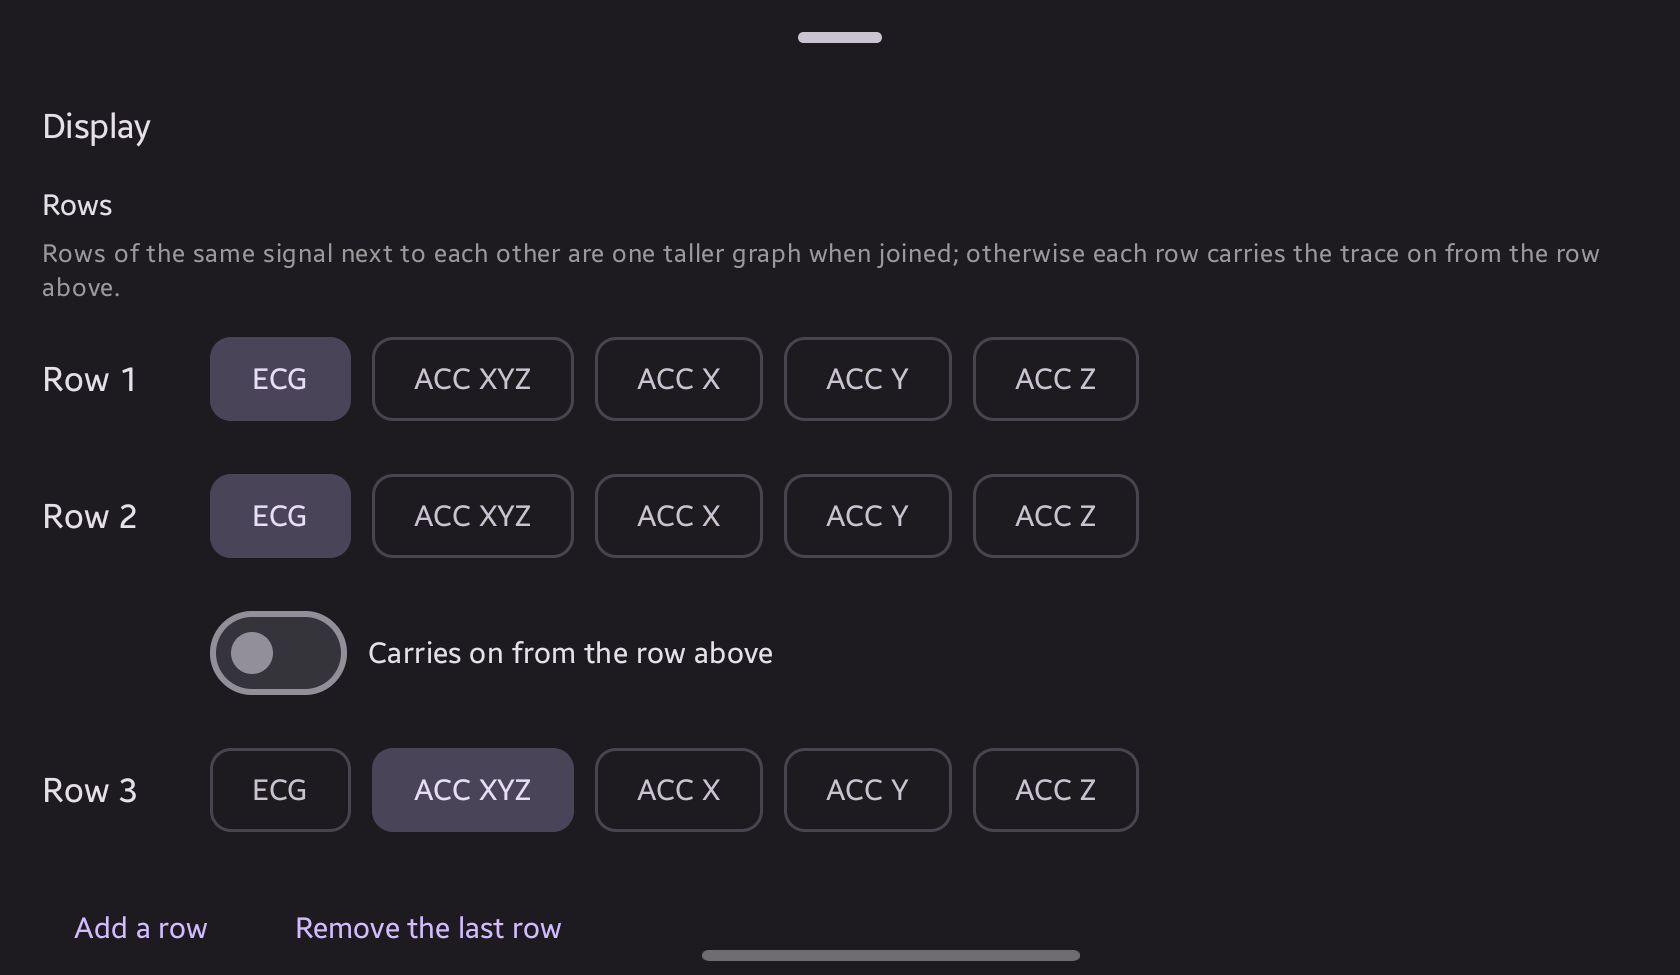
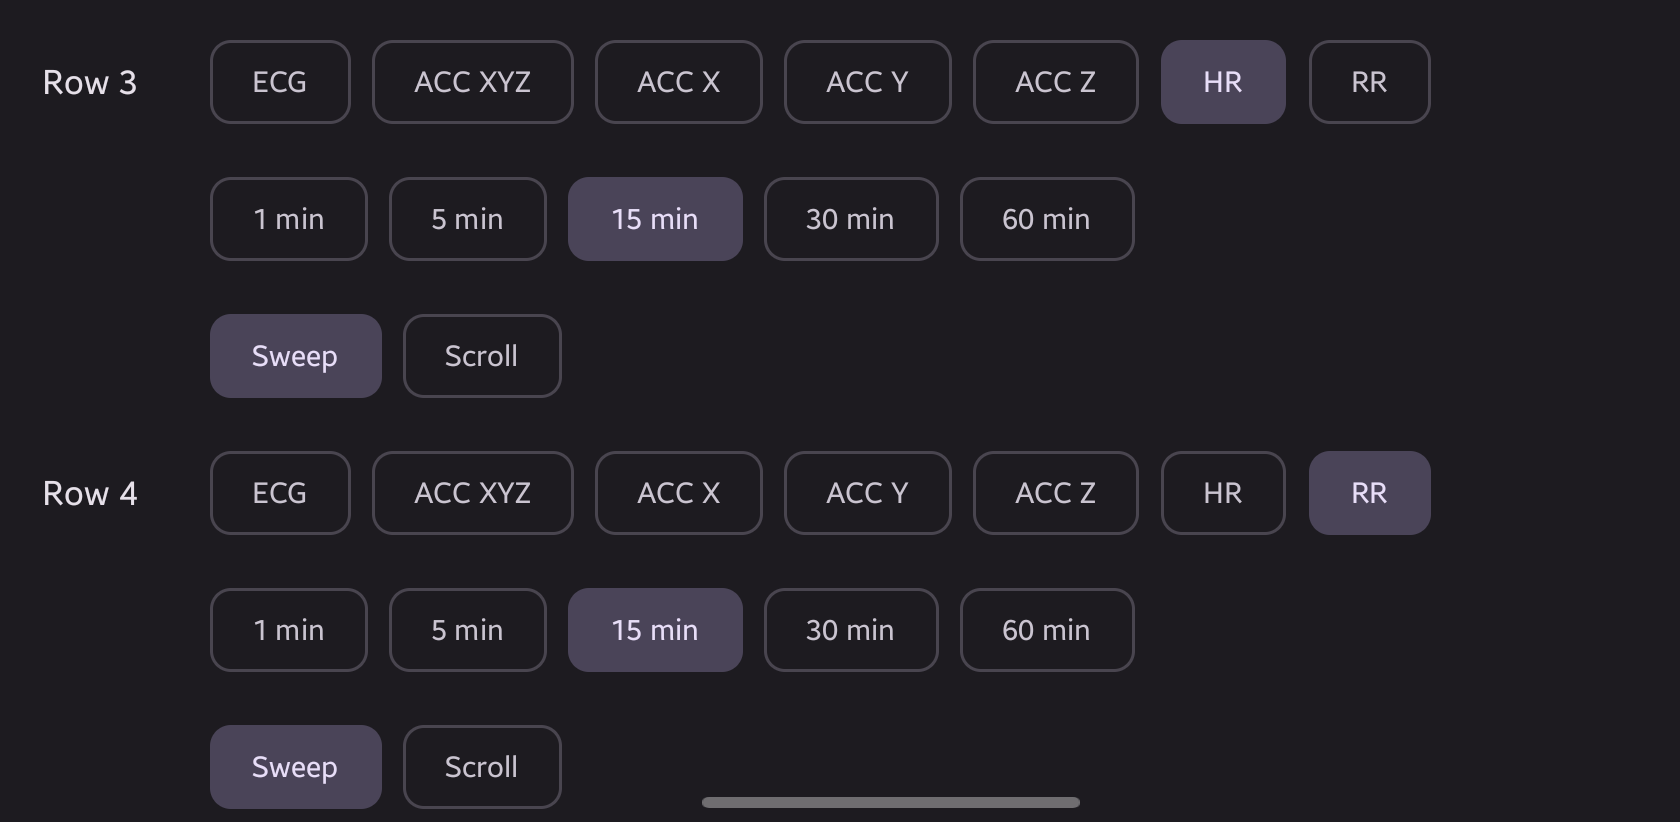
docs: show the trend rows, fast and slow ECG, and rewinding into a resumed recording in the README

diff --git a/README.md b/README.md
@@ -1,7 +1,7 @@
 # Jabjotjai
 
 <p align="center">
-  <img src="docs/screenshots/monitor-landscape.gif" alt="The live monitor in landscape while the wearer moves: two cascaded ECG rows above the accelerometer's X, Y and Z, with heart rate, RR interval and the strap's status in the bar above" width="900">
+  <img src="docs/screenshots/monitor-landscape.gif" alt="The live monitor in landscape while the wearer moves: ECG, the accelerometer's X, Y and Z, and 15-minute heart-rate and RR trends, with the strap's status in the bar above" width="900">
 </p>
 
 **A Holter-style recorder for a chest-strap ECG sensor.**
@@ -17,17 +17,22 @@ phone. It works with the Polar H10, and has only been tested on a Samsung Galaxy
 
 Download `jabjotjai-<version>.apk` from the
 [latest release](https://github.com/benwrk/Jabjotjai/releases/latest), the newest on the list
-while every release is still a prerelease, and open it on a phone running Android 13 or later. A newer version installs over an older one and keeps your recordings; never
-uninstall to update, because uninstalling deletes them.
+while every release is still a prerelease, and open it on a phone running Android 13 or later. A
+newer version installs over an older one and keeps your recordings; never uninstall to update,
+because uninstalling deletes them.
 
 <table align="center">
   <tr>
-    <td><img src="docs/screenshots/rewinding.gif" alt="Pausing the capture, dragging the timeline back while the monitor follows, and playing on from there" width="400"></td>
-    <td><img src="docs/screenshots/cascaded-ecg.png" alt="Five ECG rows cascaded into one long sweep" width="400"></td>
-    <td rowspan="2"><img src="docs/screenshots/monitor-portrait.png" alt="The monitor in portrait, with the top bar on two rows" width="170"></td>
+    <td><img src="docs/screenshots/rewinding.gif" alt="Pausing, then dragging the timeline back into an earlier file of a resumed recording while the monitor follows, and playing on from there" width="400"></td>
+    <td><img src="docs/screenshots/monitor-fast-slow.png" alt="The same ECG at 25 mm/s and at 6.25 mm/s, above heart-rate and RR trends" width="400"></td>
+    <td rowspan="3"><img src="docs/screenshots/monitor-portrait.png" alt="The monitor in portrait: fast and slow ECG above heart-rate and RR trends" width="170"></td>
   </tr>
   <tr>
-    <td><img src="docs/screenshots/chart-rows.png" alt="The display settings: choosing what each chart row shows" width="400"></td>
+    <td><img src="docs/screenshots/monitor-trends.png" alt="ECG above 15-minute heart-rate and RR trends, broken where the recording resumed" width="400"></td>
+    <td><img src="docs/screenshots/chart-rows.png" alt="The display settings: heart-rate and RR rows, each with its time span and whether it sweeps or scrolls" width="400"></td>
+  </tr>
+  <tr>
+    <td><img src="docs/screenshots/cascaded-ecg.png" alt="Five ECG rows cascaded into one long sweep" width="400"></td>
     <td><img src="docs/screenshots/strap-picker.png" alt="Picking the strap from a scan of nearby straps" width="400"></td>
   </tr>
 </table>
@@ -47,7 +52,8 @@ uninstall to update, because uninstalling deletes them.
   or join the row above into one taller graph, or cascade on from it into one long sweep, the way
   a bedside monitor folds a long ECG strip across its screen.
 - **Heart-rate and RR trends**: rows that plot the values the strap reported across 1 to 60
-  minutes, sweeping like the waveforms or scrolling with the newest value at the edge.
+  minutes, sweeping like the waveforms or scrolling with the newest value at the edge. They reach
+  back through a recording that resumed, with the time in between shown as a break.
 - **An optional beep at each beat**, with its own volume, in the foreground or in the background
   too.
 - **Nothing is hidden by the display**: a peak that runs off the edge of its row is drawn on the
@@ -57,7 +63,8 @@ uninstall to update, because uninstalling deletes them.
 **Rewind the recording while it is still running**
 
 - **A timeline like a video player's**: pause, drag to any moment, jump 15 seconds back or
-  forward, replay at 0.5× to 8×, and return to live with one tap.
+  forward, replay at 0.5× to 8×, and return to live with one tap. It spans the whole recording,
+  including the time before it resumed, with the gap between kept as a gap.
 - **The past is shown exactly as it was received**, read back from the recording itself.
 
 **Keeps recording when you are not looking**
@@ -86,6 +93,9 @@ uninstall to update, because uninstalling deletes them.
 
 ## What's new
 
+- **Trends and rewinding across a resumed recording**: when a recording resumes after an update
+  or a stop, the heart-rate and RR rows and the timeline reach back through the earlier part too,
+  with the time in between shown as a break.
 - **Heart-rate and RR rows**, plotting the strap's values across 1 to 60 minutes.
 - **Rows with their own speeds**: a row can be a separate graph at its own sweep speed, so the
   same ECG can be shown fast and slow at once.
